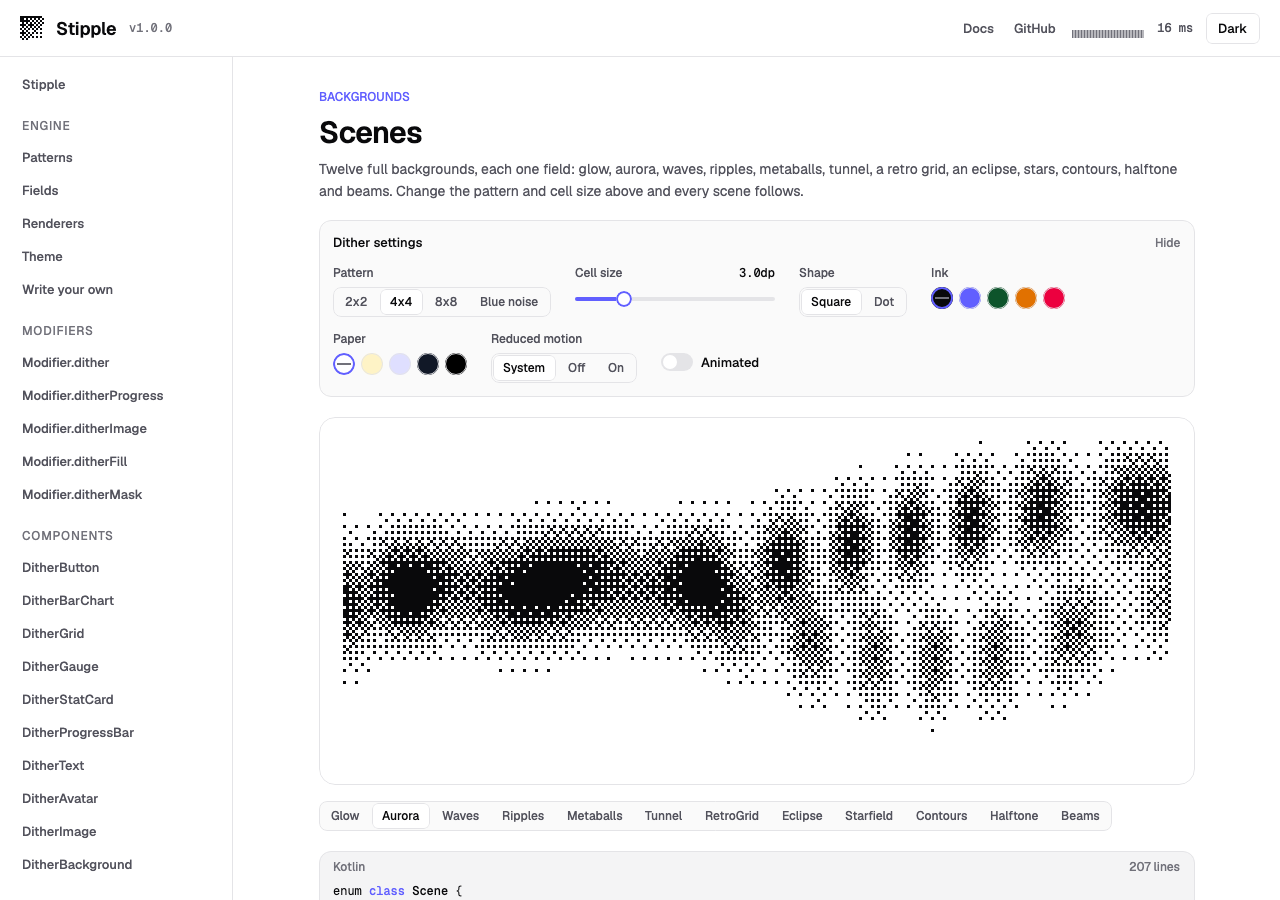
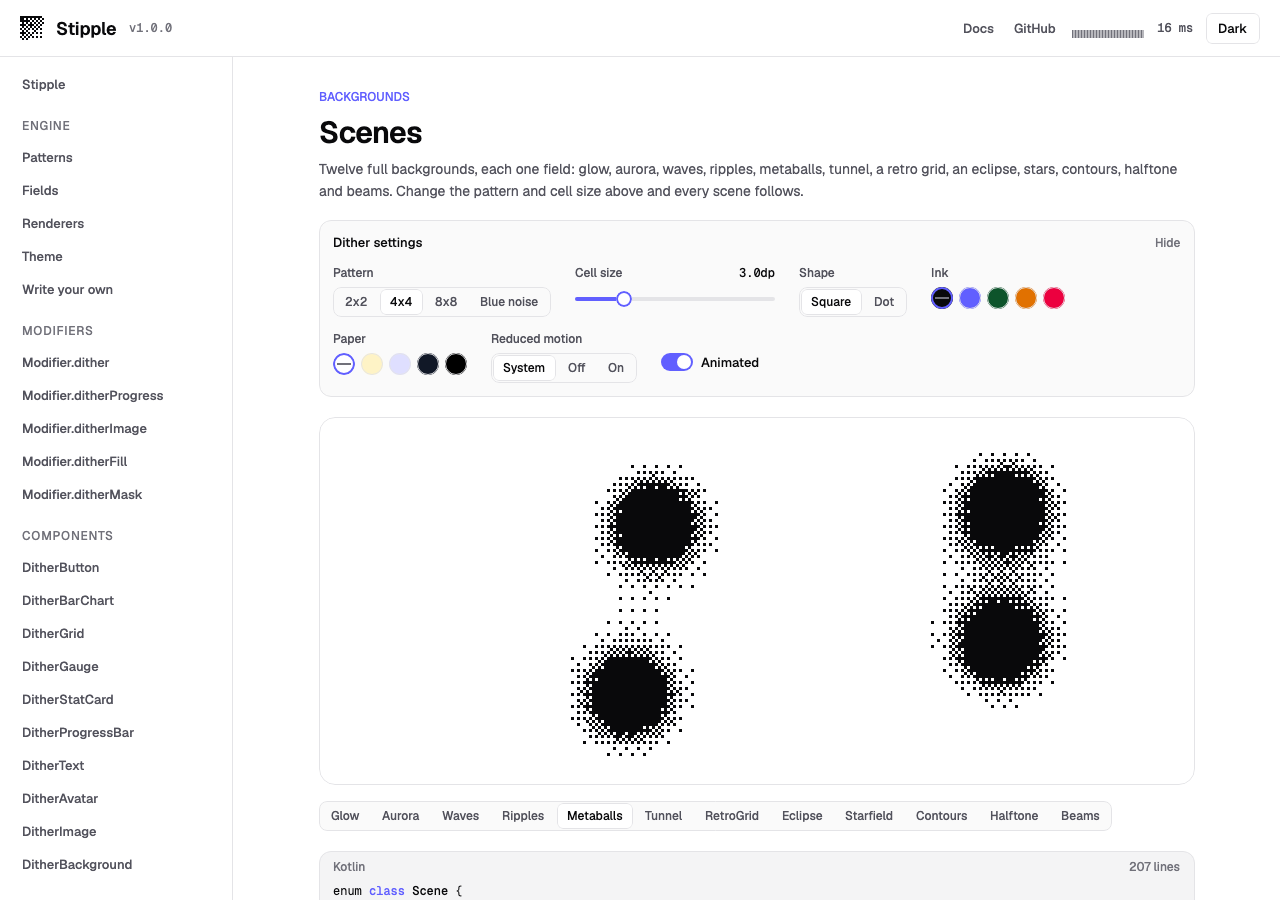
Animate the gallery by default and test the web gallery in WebKit

Changed region(s): [[0.25, 0.4978, 0.9375, 0.84], [0.5, 0.3733, 0.5625, 0.4356], [0.4375, 0.9022, 0.4688, 0.9333]]

diff --git a/samples/web/e2e/gallery.spec.ts b/samples/web/e2e/gallery.spec.ts
@@ -3,8 +3,12 @@ import { readFileSync } from 'node:fs'
 import { expect, test, type Page } from '@playwright/test'
 import sharp from 'sharp'
 
-// Skiko warns about an API it uses itself. Nothing else may reach the console as an error.
-const KNOWN_ERRORS = [/Accessing `memory` via `wasmExports` is deprecated/]
+// Skiko warns about APIs it uses itself, and WebKit reports a WebGL extension query as an error. Nothing else may
+// reach the console as an error.
+const KNOWN_ERRORS = [
+  /Accessing `memory` via `wasmExports` is deprecated/,
+  /WEBGL_debug_renderer_info not enabled/,
+]
 
 const collectErrors = (page: Page) => {
   const errors: string[] = []
@@ -81,8 +85,8 @@ for (const path of ['/', '/#scenes', '/#gauge']) {
   })
 }
 
-test('embed mode shows only the example, and animated=1 makes it move', async ({ page }) => {
-  await page.goto('/?embed=1&animated=1#scenes')
+test('examples animate by default', async ({ page }) => {
+  await page.goto('/?embed=1#scenes')
   await ready(page)
   await page.waitForTimeout(800)
   const first = await page.screenshot()
@@ -90,8 +94,8 @@ test('embed mode shows only the example, and animated=1 makes it move', async ({
   await expect.poll(async () => difference(first, await page.screenshot()), { timeout: 5_000 }).toBeGreaterThan(0.5)
 })
 
-test('without animated=1 an example holds still', async ({ page }) => {
-  await page.goto('/?embed=1#scenes')
+test('animated=0 makes an example hold still', async ({ page }) => {
+  await page.goto('/?embed=1&animated=0#scenes')
   await ready(page)
   await page.waitForTimeout(800)
   const first = await page.screenshot()

diff --git a/samples/web/src/wasmJsMain/kotlin/com/jantursky/stipple/samples/web/Main.kt b/samples/web/src/wasmJsMain/kotlin/com/jantursky/stipple/samples/web/Main.kt
@@ -11,10 +11,13 @@ private fun pageFromHash(): String? =
         .removePrefix("#")
         .ifEmpty { null }
 
-/** A query flag such as `?embed=1`: present and not "0". */
-private fun flag(name: String): Boolean {
+/** A query flag such as `?embed=1`: [default] when absent, otherwise true unless it is "0". */
+private fun flag(
+    name: String,
+    default: Boolean = false,
+): Boolean {
     val value = Regex("[?&]$name=([^&]*)").find(window.location.search)?.groupValues?.get(1)
-    return value != null && value != "0"
+    return if (value == null) default else value != "0"
 }
 
 @OptIn(ExperimentalComposeUiApi::class)
@@ -22,7 +25,7 @@ fun main() {
     ComposeViewport(document.body!!) {
         GalleryApp(
             initialPage = pageFromHash(),
-            initialAnimated = flag("animated"),
+            initialAnimated = flag("animated", default = true),
             embed = flag("embed"),
             onPageChange = { id ->
                 // Replace instead of push, so the back button leaves the gallery rather than stepping through pages.

diff --git a/samples/gallery/src/commonMain/kotlin/com/jantursky/stipple/samples/gallery/GalleryApp.kt b/samples/gallery/src/commonMain/kotlin/com/jantursky/stipple/samples/gallery/GalleryApp.kt
@@ -60,7 +60,7 @@ const val GALLERY_VERSION = "1.0.0"
  * @param initialPage The id of the page to open, such as `gauge`; the overview by default.
  * @param onPageChange Called with the id of each page that opens, so a host can keep it in a URL.
  * @param onDarkModeChange Called with the theme in use, so a host can match its system bars.
- * @param initialAnimated Starts with animation on, as the docs' live examples do.
+ * @param initialAnimated Starts with animation on, which is the gallery's default. Reduced motion still wins.
  * @param embed Shows only the current page's example, with no bar or sidebar, for embedding in another page.
  */
 @Composable
@@ -70,7 +70,7 @@ fun GalleryApp(
     initialDark: Boolean = isSystemInDarkTheme(),
     onPageChange: (String) -> Unit = {},
     onDarkModeChange: (Boolean) -> Unit = {},
-    initialAnimated: Boolean = false,
+    initialAnimated: Boolean = true,
     embed: Boolean = false,
 ) {
     val state = remember { GalleryState(initialDark).also { it.animated = initialAnimated } }

diff --git a/samples/gallery/src/commonMain/kotlin/com/jantursky/stipple/samples/gallery/GalleryState.kt b/samples/gallery/src/commonMain/kotlin/com/jantursky/stipple/samples/gallery/GalleryState.kt
@@ -22,7 +22,7 @@ class GalleryState(
     var cell by mutableFloatStateOf(3f)
     var shape by mutableStateOf(CellShape.Square)
     var pattern by mutableStateOf<DitherPattern>(DitherPatterns.Bayer4)
-    var animated by mutableStateOf(false)
+    var animated by mutableStateOf(true)
     var motion by mutableStateOf(StippleMotion.System)
 
     /** The theme on the stage: the chosen colors over the light or dark base. */

diff --git a/playwright.config.ts b/playwright.config.ts
@@ -15,6 +15,8 @@ export default defineConfig({
   projects: [
     { name: 'desktop', use: { ...devices['Desktop Chrome'] } },
     { name: 'phone', use: { ...devices['Pixel 7'] } },
+    { name: 'firefox', use: { ...devices['Desktop Firefox'] } },
+    { name: 'safari', use: { ...devices['Desktop Safari'] } },
   ],
   webServer: {
     command: 'node scripts/serve-demo.mjs 4173',

diff --git a/README.md b/README.md
@@ -136,7 +136,7 @@ Stipple adds a small engine of its own, modifiers for any element, a cell render
 | Android 6 to 12 (API 23 to 32) | yes | no, uses cells | animator duration scale | Robolectric tests; not on a device |
 | iOS | yes | Skia runtime effect, **unverified** | Reduce Motion | simulator tests and the gallery on an iPhone 17 simulator; not on a device |
 | JVM desktop | yes | Skia runtime effect | none, use `LocalStippleMotion` | tests and screenshots on macOS |
-| wasmJs | yes | Skia runtime effect | `prefers-reduced-motion` | Chromium via Playwright (software GL); not Firefox or Safari |
+| wasmJs | yes | Skia runtime effect | `prefers-reduced-motion` | Chromium and WebKit (the engine of Safari) via Playwright, software GL; not Firefox, not Safari itself |
 
 Built with Kotlin 2.4 and Compose Multiplatform 1.12.
 
